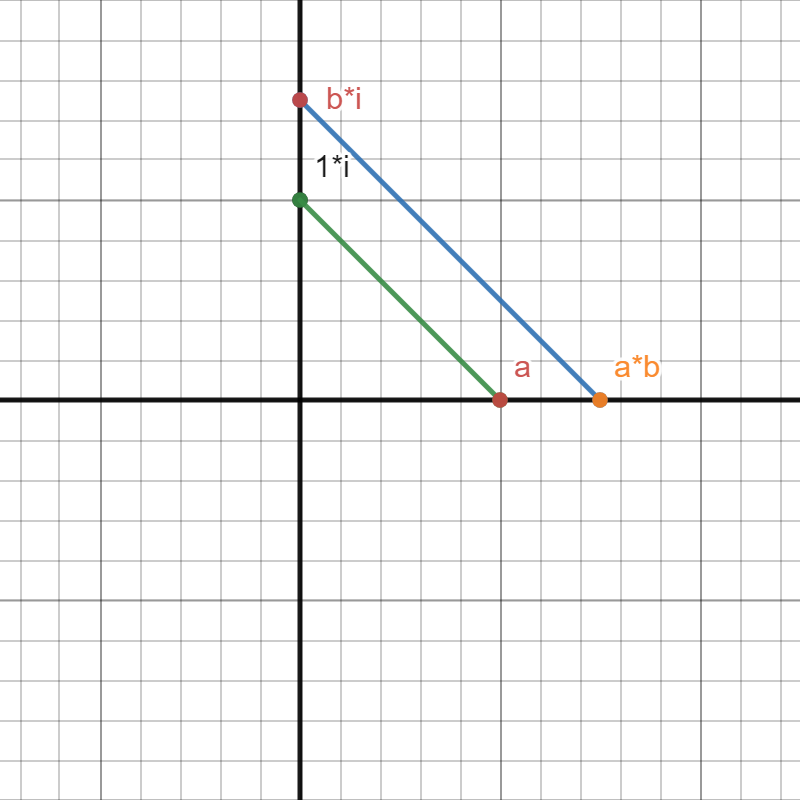
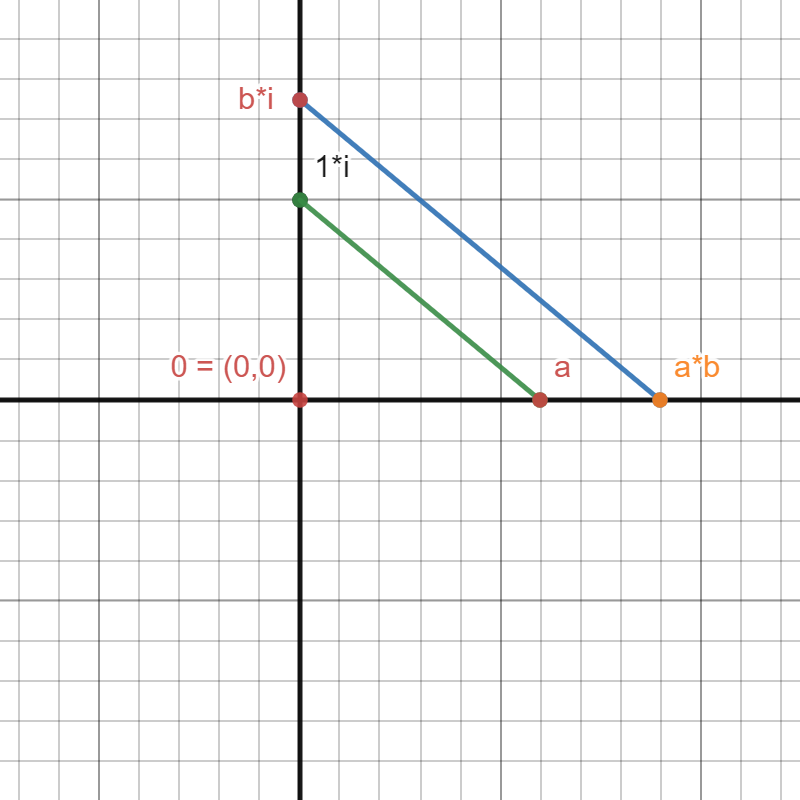
Update generated slides

Changed region(s): [[0.0, 0.0, 1.0, 1.0]]

diff --git a/index.html b/index.html
@@ -51,21 +51,22 @@
         <div class="slides">
             <section >
 <h3>Introduction</h3>
-<p class="fragment">Let's say we start with two points, a ruler, and a compass. I.e. we can draw lines between any two points, and we can draw a circle around a point through a point.</p>
-<p class="fragment">What shapes can we make? </p>
+<p>Let's say we start with two points, a ruler, and a compass. I.e. we can draw lines between any two points, and we can draw a circle around a point through a point.
+What shapes can we make?</p>
+<img src="images/onlytwopoints.png" width="43%">
 </section>
 <section >
 <h3>Introduction</h3>
 <p>Let's say we are given the two red points.
 Just by playing around it is fairly easy to make a triangle.</p>
 <img src="images/ConstructingTriangle.png" width="43%">
-<!-- ![Triangle](images/ConstructingTriangle.png) -->
 </section>
 <section >
 <h3>Introduction</h3>
 <p>It is also not too hard to construct a square. Let's say we are given <span class="math">\(P_0\)</span> and <span class="math">\(P_1\)</span>. <br>
-We first construct the point <span class="math">\(P_2\)</span> with the green circle. <br>
-Then we draw the two blue circles, and the line between their intersections (<span class="math">\(Q_1\)</span> and <span class="math">\(Q_2\)</span>) is the <span class="math">\(y\)</span>-axis.
+We construct the point <span class="math">\(P_2\)</span> with the green circle intersecting line through <span class="math">\(P_0\)</span> and <span class="math">\(P_1\)</span>. <br>
+Then we draw the two blue circles (with radius <span class="math">\(\overline{P_1P_2}\)</span> and midpoints <span class="math">\(P_1\)</span> and <span class="math">\(P_2\)</span>, resp.).</p>
+<p>The line between their intersections is the <span class="math">\(y\)</span>-axis.
 <p class="fragment">In particular this can be used to construct the perpendicular bisector.</p></p>
 <img src="images/ConstructingSquare.png" width="43%">
 </section>
@@ -78,16 +79,19 @@ By keeping going like this we will eventually get all 6 corners.</p>
 <img src="images/ConstructingHexagon.png" width="43%">
 </section>
 <section >
-<section >
 <h3>Introduction</h3>
 <p>The pentagon is the first harder shape to find. <br>
 And if you find it through playing around, can you be <em>sure</em> that it is actually a pentagon? <br>
-How would you even proof that?
-<p class="fragment">By the end of this, I hope to show you how thinking algebraically about a geometric problem can help answer questions like this. <br>
-I will assume that you have a very basic familiarity with complex numbers, but nothing more. <br>
-This presentation is 2-dimensional. If a slide contains harder material I tried to make it more clear on the slides underneath it. <br>
-You can press down with the arrow keys or on the arrows on the bottom right corner. <br>
-Please try it out :)</p></p>
+How would you even prove that?</p>
+<img src="images/RawPentagon_0.png" width="43%">
+</section>
+<section >
+<section >
+<h3>Introduction</h3>
+<p>By the end of this, I hope to show you how thinking algebraically about a geometric problem can help answer questions like this.</p>
+<p>I will assume that you have a very basic familiarity with complex numbers, but nothing more.</p>
+<p>This presentation is 2-dimensional. If a slide contains harder material I tried to make it more clear on the slides underneath it. You can press down with the arrow keys or on the arrows on the bottom right corner.</p>
+<p>Please try it out :)</p>
 </section>
 <section >
 <h3>Helper slide</h3>
@@ -108,21 +112,27 @@ Please try it out :)</p></p>
 <p>First of all we need to understand that the set of points we can construct form an algebraic structure. <br>
 We think of the plane as the complex numbers and I claim that if we have constructed any two points, then we can add and multiply them as complex numbers. (To be more precise it is a <em>subfield</em>)<br>
 To show this, it is enough to prove it for real numbers, i.e. points on the <span class="math">\(x\)</span>-axis. This will make the pictures with the constructions less 'crowded' with shapes. (For more details on why this works click down.)</p>
-<p class="fragment">For arithmetic to even make sense we need to fix a frame of reference. We have seen from the construction of the square that we can draw a the coordinate axis. See the second helper slide for a more details.</p>
+<p class="fragment">For arithmetic to even make sense we need to fix a frame of reference. We have seen from the construction of the square that we can draw the coordinate axis. See the second helper slide for a more details.</p>
 </section>
 <section >
-<h3>Some Quick Notes on Complex Numbers</h3>
+<h3>Some Quick Notes on Complex Numbers I</h3>
 <p>Real numbers (denoted <span class="math">\(\mathbb{R}\)</span>) are numbers as most people would understand them in everyday life. They can be positive or negative, whole numbers like <span class="math">\(1,2,-7\)</span>, fractions like <span class="math">\(\frac{1}{2}\)</span> or more complicated things like <span class="math">\(\sqrt{2}\)</span> or <span class="math">\(\pi\)</span>.</p>
 <p>A complex number <span class="math">\(z\)</span> consists of two parts, a real and imaginary part. You can think of the real part as the <span class="math">\(x\)</span>-direction and of the imaginary part as the <span class="math">\(y\)</span>-direction. That is why we can identify points on a plane with complex numbers.</p>
-<p>Because we can easily 'rotate' every number by 90° (see for example how we constructed <span class="math">\(Q_1\)</span> and <span class="math">\(Q_2\)</span> for the square), we can construct the complex number <span class="math">\(a + bi\)</span> from the two real numbers <span class="math">\(a\)</span> and <span class="math">\(b\)</span> with ruler and compass. And therefore it is enough to only consider basic arithmetic on the real number line.</p>
+<img src="images/ComplexNumbersI.png" width="43%">
+</section>
+<section >
+<h3>Some Quick Notes on Complex Numbers II</h3>
+<p>Because we can easily 'rotate' every number by 90°, we can construct the complex number <span class="math">\(a + bi\)</span> from the two real numbers <span class="math">\(a\)</span> and <span class="math">\(b\)</span> with ruler and compass. And therefore it is enough to only consider basic arithmetic on the real number line.</p>
+<p>On the picture below we see how we can transform <span class="math">\(a\)</span> to <span class="math">\(a\cdot i\)</span> or vice versa.</p>
 <p>This construction can also be seen on the next slide.</p>
+<img src="images/ComplexNumbersIII.png" width="43%">
 </section>
 <section >
 <h3>Fixing a Frame of Reference</h3>
 <p>Remember: We always start with two points. We can just declare one of them to be <em>defined</em> as the origin, i.e. <span class="math">\((0,0)\)</span> and the other one as <span class="math">\((0,1)\)</span>, and implicit in this is
 <em> the definition of the <span class="math">\(x\)</span>-axis.
 </em> the definition of <span class="math">\(1\)</span>.
-In the picture above this is indicated by the black lines.</p>
+In the pictures before this is indicated by the black lines.</p>
 </section>
 </section>
 <section >
@@ -213,7 +223,7 @@ The first line satisfies <span class="math">\(y=-\frac{1}{a}x + 1\)</span>. The 
 <h3>Square Root</h3>
 <p>We take the square root of some positive number <span class="math">\(a\)</span>. We first draw a circle through the midpoint between <span class="math">\(0\)</span> and <span class="math">\(1+a\)</span> through the origin and <span class="math">\(1+a\)</span>. With this circle</p>
 <ul>
-<li>We first draw the perpendicular line in <span class="math">\(a\)</span> on the <span class="math">\(x\)</span>-axis. This line intersect the circle.</li>
+<li>We first draw the perpendicular line in <span class="math">\(1\)</span> on the <span class="math">\(x\)</span>-axis. This line intersect the circle.</li>
 <li>We draw the triangle with this new point on the circle, the origin, and <span class="math">\(1+a\)</span>.</li>
 <li>By <a href="https://en.wikipedia.org/wiki/Thales%27s_theorem">Thale's Theorem</a> this is a right triangle, so the following equations all hold</li>
 </ul>
@@ -343,12 +353,12 @@ x_0^2 + y_0^2 -r^2 &amp;= -1 \left(\Rightarrow y_0^2 - r^2 = -\frac54 \right)
 <p>Next we need <span class="math">\(r&gt;0\)</span> since otherwise it wouldn't be a geometric circle.</p>
 <p>As far as actual algebra goes, I would just suggest multiplying with <span class="math">\(4\)</span>, noticing that <span class="math">\(4=2^2\)</span> and then get
 <span class="math">\[(2y_0)^2 - (2r)^2 = -5\]</span>
-So wee need two square numbers that differ by <span class="math">\(5\)</span>, and <span class="math">\((4,9)\)</span> can be easily found by hand, and then transformed to the solution on the slide above.</p>
+So we need two square numbers that differ by <span class="math">\(5\)</span>, and <span class="math">\((4,9)\)</span> can be easily found by hand, and then transformed to the solution on the slide above.</p>
 </section>
 </section>
 <section >
 <h3>Putting it back into Geometry</h3>
-<p>What we have shown, in essance, is that the intersection of the circle
+<p>What we have shown, in essence, is that the intersection of the circle
 <span class="math">\[\left(X+\frac12\right)^2 + \left(Y-1\right)^2 = \left(\frac32\right)^2 \text{ and the line } Y=0\]</span>
 is given by <span class="math">\(X^2+X-1=0\)</span>. <em>So this is a geometric construction of <span class="math">\(\zeta + \zeta^4\)</span></em>.</p>
 <p>And we know from the arithmetic part above how to get the midpoint <span class="math">\((-1/2, 1)\)</span> and the radius <span class="math">\(3/2\)</span> of the circle, from two given points.</p>
@@ -366,6 +376,15 @@ is given by <span class="math">\(X^2+X-1=0\)</span>. <em>So this is a geometric 
 <li>Compute the powers of <span class="math">\(\zeta\)</span>.</li>
 </ul>
 <img src="images/Pentagon_Final.png" width="43%" >
+</section>
+<section >
+<h3>Putting it all together</h3>
+<p>Technically we have only constructed <span class="math">\(\zeta\)</span> and <span class="math">\(\zeta^4\)</span>. There are multiple ways to get <span class="math">\(\zeta^2\)</span> and <span class="math">\(\zeta^3\)</span>.</p>
+<ul>
+<li>Repeat the same process to construct <span class="math">\(\zeta^2\)</span> in the same way we did for <span class="math">\(\zeta\)</span>. This is tedious, but requires no new insights.</li>
+<li>Go back to the basic arithmetic section and just do the multiplication of <span class="math">\(\zeta\)</span> with itself to get <span class="math">\(\zeta^2\)</span>.</li>
+<li>Draw the circle around <span class="math">\(\zeta\)</span> through <span class="math">\(1\)</span> ;)</li>
+</ul>
 </section>
 
 
